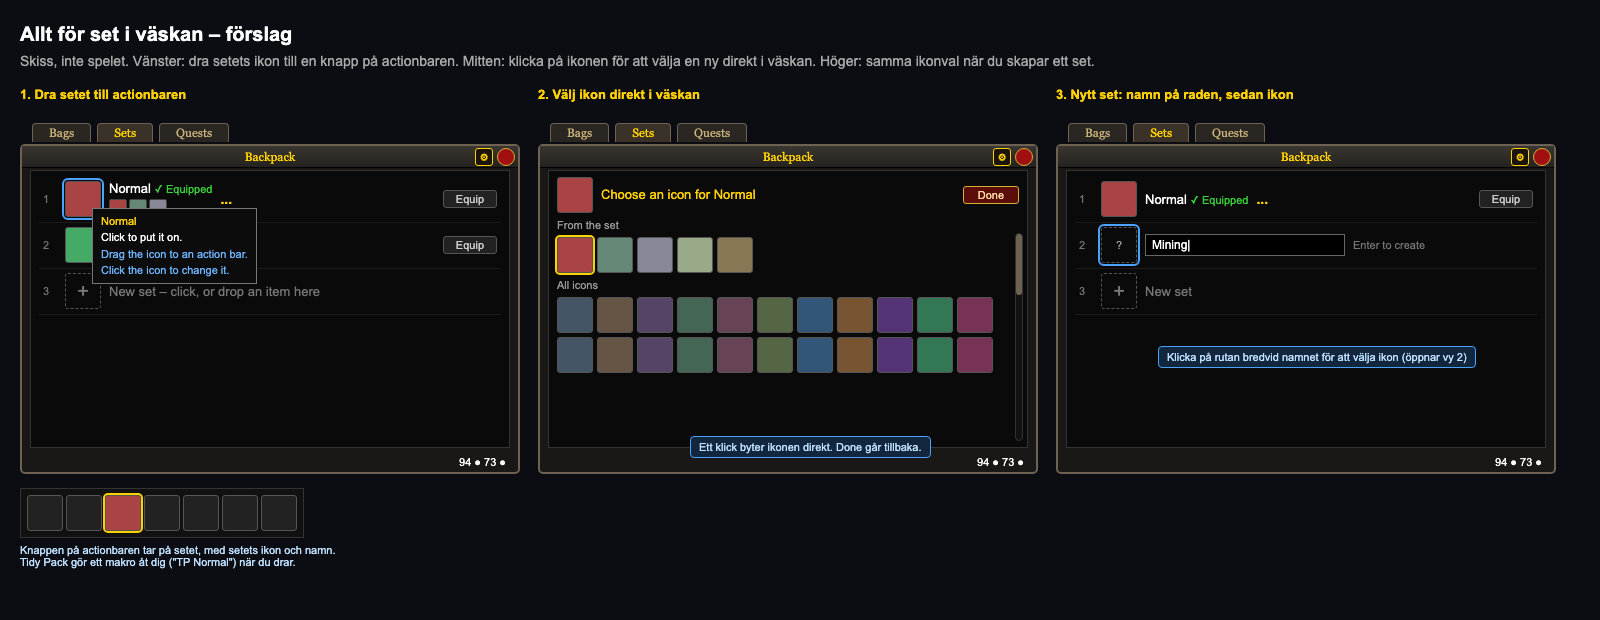
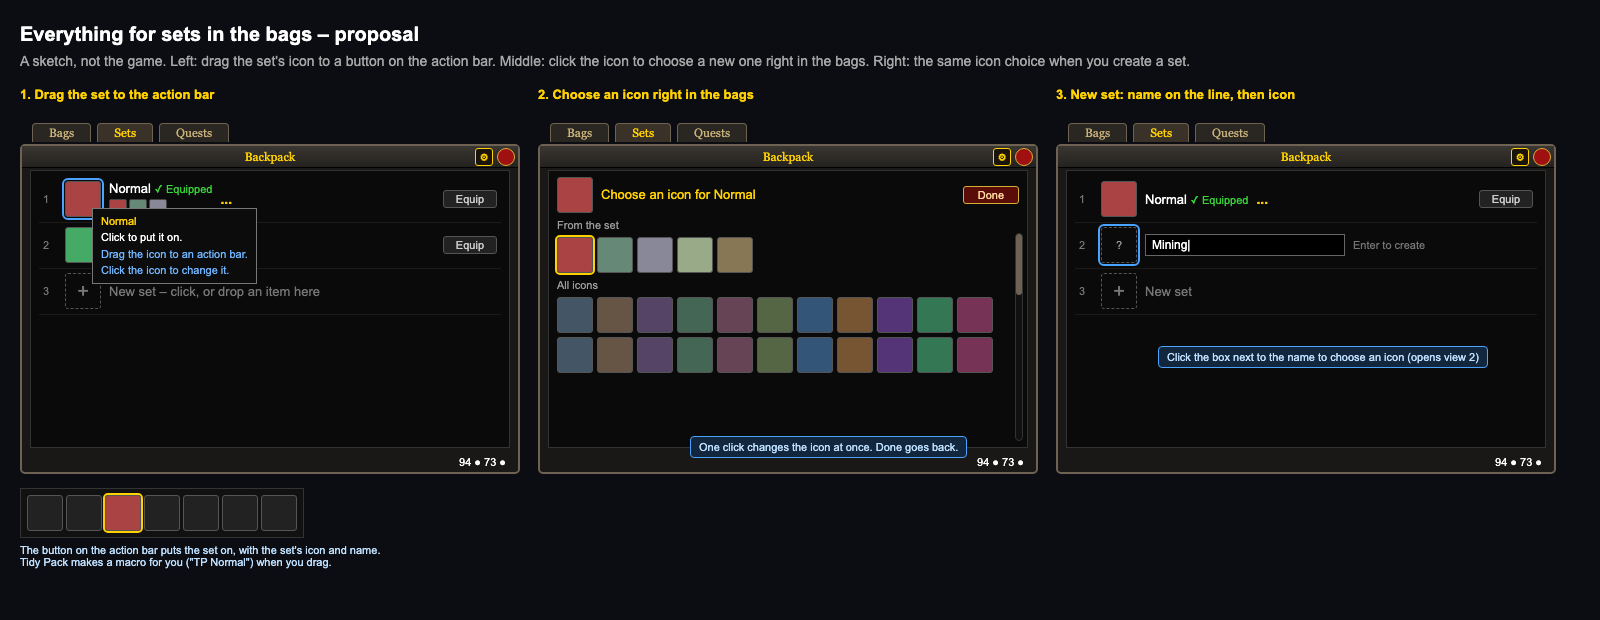
Translate .design/sketch-sets-in-bag to English (#7)

diff --git a/.design/sketch-sets-in-bag.html b/.design/sketch-sets-in-bag.html
@@ -1,4 +1,4 @@
-<!DOCTYPE html><html><head><meta charset="utf-8"><title>Tidy Pack – skiss: allt för set i väskan</title>
+<!DOCTYPE html><html><head><meta charset="utf-8"><title>Tidy Pack – sketch: everything for sets in the bags</title>
 <style>
 *{box-sizing:border-box}body{margin:0;padding:20px;background:#0b0d12;color:#d8d8d8;font:14px/1.4 Arial,sans-serif;width:1560px}
 h1{font-size:20px;margin:0 0 4px;color:#fff}.n{color:#a8a8a8;margin:0 0 14px;max-width:1450px}
@@ -24,11 +24,11 @@ h1{font-size:20px;margin:0 0 4px;color:#fff}.n{color:#a8a8a8;margin:0 0 14px;max
 .lbl{font:11px Arial;color:#9a9a9a;margin-top:6px}.head{display:flex;align-items:center;gap:8px}.head .nm{font:13px Arial;color:#ffd100}.btn{border:1px solid #d4af37;background:#5a0d08;color:#ffd9a0;padding:2px 14px;font:11px Arial;border-radius:3px;margin-left:auto}
 .sb{position:absolute;right:4px;top:62px;bottom:6px;width:8px;background:#111;border:1px solid #333;border-radius:4px}.sb i{position:absolute;left:0;right:0;top:0;height:30%;background:#6e6252;border-radius:4px}
 </style></head><body>
-<h1>Allt för set i väskan – förslag</h1>
-<p class="n">Skiss, inte spelet. Vänster: dra setets ikon till en knapp på actionbaren. Mitten: klicka på ikonen för att välja en ny direkt i väskan. Höger: samma ikonval när du skapar ett set.</p>
+<h1>Everything for sets in the bags – proposal</h1>
+<p class="n">A sketch, not the game. Left: drag the set's icon to a button on the action bar. Middle: click the icon to choose a new one right in the bags. Right: the same icon choice when you create a set.</p>
 <div class="row">
 
-<div class="col"><h2>1. Dra setet till actionbaren</h2><div class="bag">
+<div class="col"><h2>1. Drag the set to the action bar</h2><div class="bag">
 <div class="tabs"><div class="tab">Bags</div><div class="tab on">Sets</div><div class="tab">Quests</div></div>
 <div class="t">Backpack<div class="g">⚙</div><div class="x"></div></div>
 <div class="in">
@@ -39,10 +39,10 @@ h1{font-size:20px;margin:0 0 4px;color:#fff}.n{color:#a8a8a8;margin:0 0 14px;max
 <div class="tip" style="left:70px;top:62px"><span class="y">Normal</span><br>Click to put it on.<br><span class="bl">Drag the icon to an action bar.</span><br><span class="bl">Click the icon to change it.</span></div>
 </div>
 <div class="bar"><i></i><i></i><i style="background:#a44;outline:2px solid #ffd100"></i><i></i><i></i><i></i><i></i></div>
-<div style="font:11px Arial;color:#bfe0ff;margin-top:6px">Knappen på actionbaren tar på setet, med setets ikon och namn.<br>Tidy Pack gör ett makro åt dig ("TP Normal") när du drar.</div>
+<div style="font:11px Arial;color:#bfe0ff;margin-top:6px">The button on the action bar puts the set on, with the set's icon and name.<br>Tidy Pack makes a macro for you ("TP Normal") when you drag.</div>
 </div>
 
-<div class="col"><h2>2. Välj ikon direkt i väskan</h2><div class="bag">
+<div class="col"><h2>2. Choose an icon right in the bags</h2><div class="bag">
 <div class="tabs"><div class="tab">Bags</div><div class="tab on">Sets</div><div class="tab">Quests</div></div>
 <div class="t">Backpack<div class="g">⚙</div><div class="x"></div></div>
 <div class="in">
@@ -53,10 +53,10 @@ h1{font-size:20px;margin:0 0 4px;color:#fff}.n{color:#a8a8a8;margin:0 0 14px;max
 <div class="grid"><i style="background:#456"></i><i style="background:#654"></i><i style="background:#546"></i><i style="background:#465"></i><i style="background:#645"></i><i style="background:#564"></i><i style="background:#357"></i><i style="background:#753"></i><i style="background:#537"></i><i style="background:#375"></i><i style="background:#735"></i><i style="background:#456"></i><i style="background:#654"></i><i style="background:#546"></i><i style="background:#465"></i><i style="background:#645"></i><i style="background:#564"></i><i style="background:#357"></i><i style="background:#753"></i><i style="background:#537"></i><i style="background:#375"></i><i style="background:#735"></i></div>
 <div class="sb"><i></i></div>
 </div><div class="money">94 ● 73 ●</div>
-<div class="call" style="left:150px;top:290px">Ett klick byter ikonen direkt. Done går tillbaka.</div>
+<div class="call" style="left:150px;top:290px">One click changes the icon at once. Done goes back.</div>
 </div></div>
 
-<div class="col"><h2>3. Nytt set: namn på raden, sedan ikon</h2><div class="bag">
+<div class="col"><h2>3. New set: name on the line, then icon</h2><div class="bag">
 <div class="tabs"><div class="tab">Bags</div><div class="tab on">Sets</div><div class="tab">Quests</div></div>
 <div class="t">Backpack<div class="g">⚙</div><div class="x"></div></div>
 <div class="in">
@@ -64,7 +64,7 @@ h1{font-size:20px;margin:0 0 4px;color:#fff}.n{color:#a8a8a8;margin:0 0 14px;max
 <div class="set"><span class="num">2</span><div class="ic hl" style="background:#0a0a0a;border-style:dashed;color:#999;text-align:center;font:11px/34px Arial">?</div><div style="border:1px solid #666;background:#000;width:200px;height:22px;font:12px/20px Arial;padding:0 6px;color:#fff">Mining|</div><span style="font:11px Arial;color:#777">Enter to create</span></div>
 <div class="set empty"><span class="num">3</span><div class="ic">+</div><div class="nm">New set</div></div>
 </div><div class="money">94 ● 73 ●</div>
-<div class="call" style="left:100px;top:200px">Klicka på rutan bredvid namnet för att välja ikon (öppnar vy 2)</div>
+<div class="call" style="left:100px;top:200px">Click the box next to the name to choose an icon (opens view 2)</div>
 </div></div>
 
 </div></body></html>
